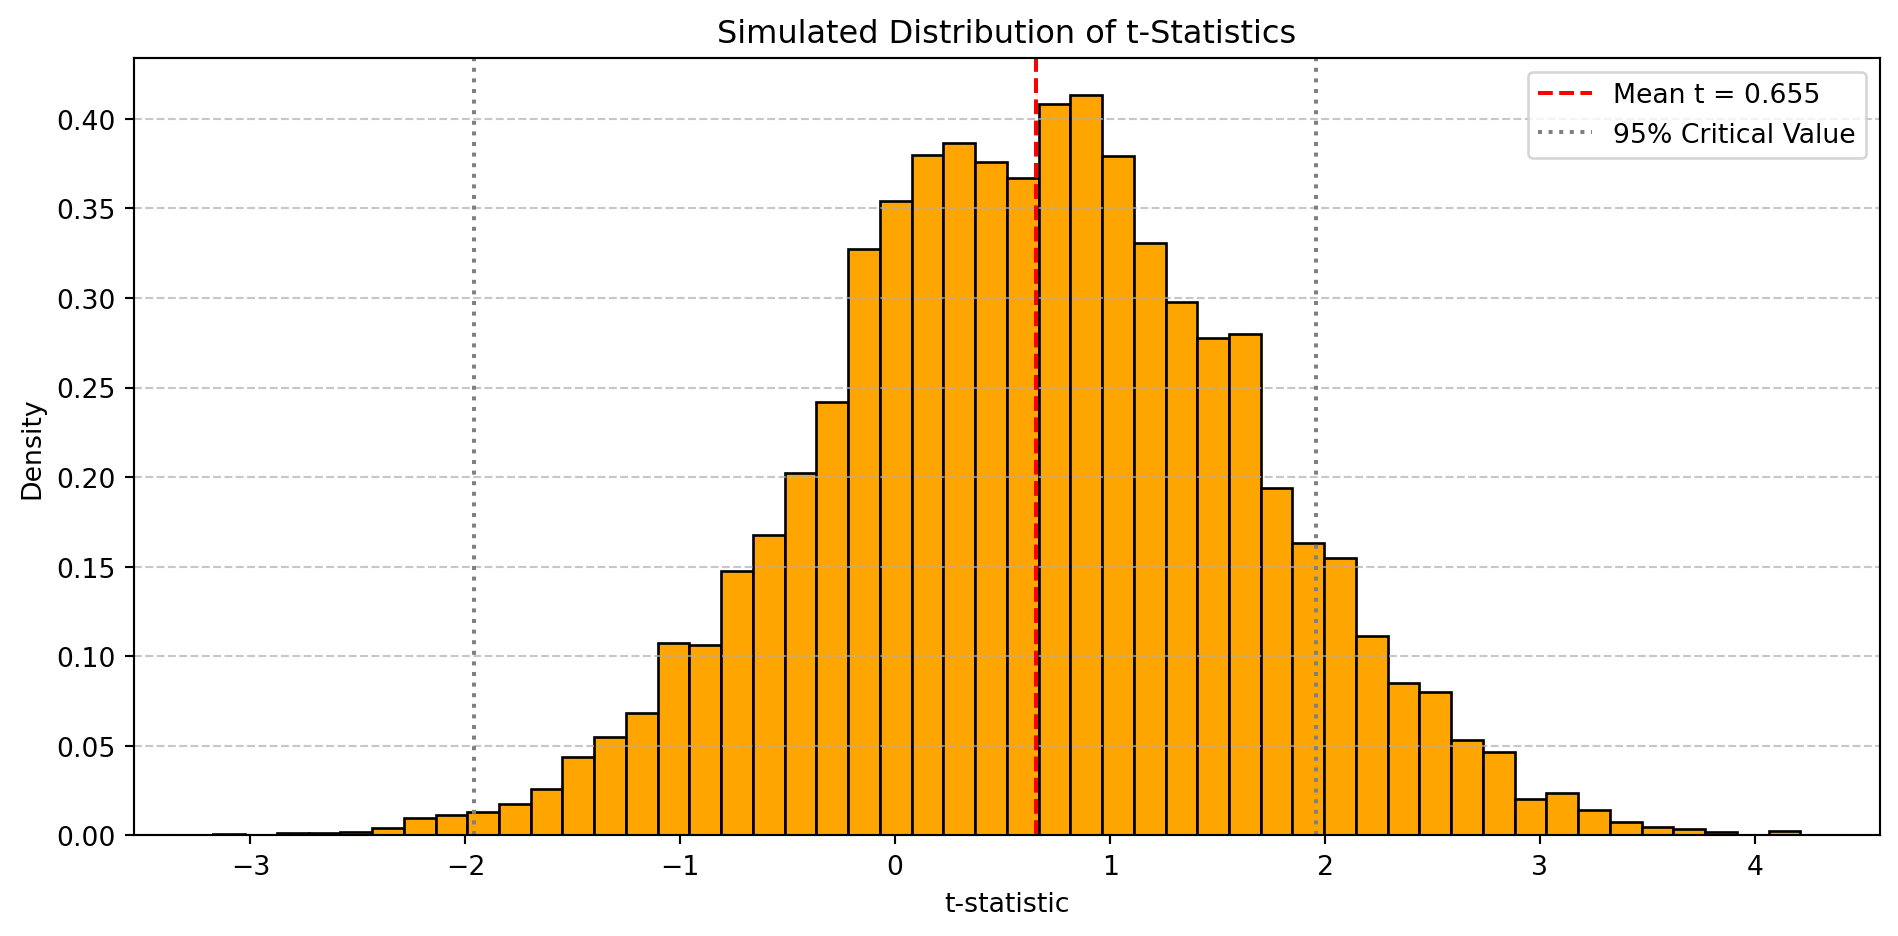
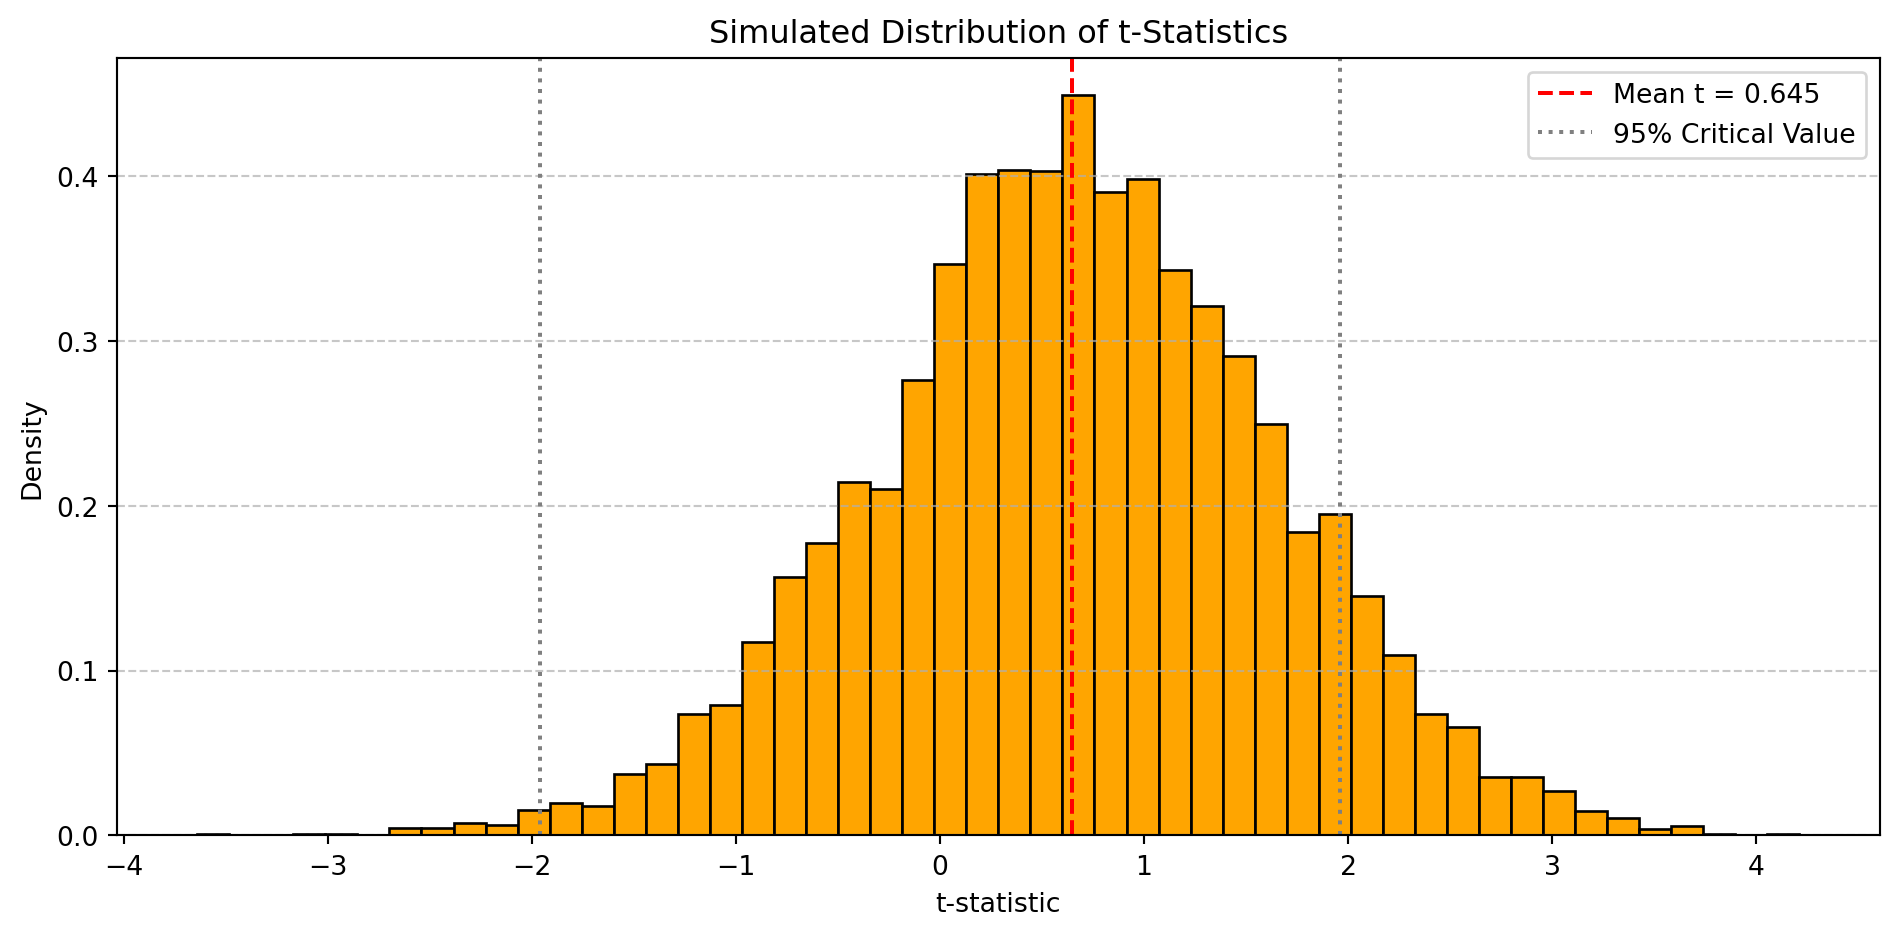
nan fix

diff --git a/docs/blogs/hw1/index.html b/docs/blogs/hw1/index.html
@@ -235,7 +235,7 @@ pre > code.sourceCode > span > a:first-child::before { text-decoration: underlin
 - Demographic indicators and prior donation history (e.g., years since first gift, total number of past donations, gender).
 - Geographic and political indicators such as whether the donor lived in a “red” or “blue” state during the 2004 presidential election, and the level of activity of the organization in that state.</code></pre>
 <p>The following Python code chunk loads the original dataset Dean Karlan used:</p>
-<div id="1e63f884" class="cell" data-execution_count="1">
+<div id="2b68b0b0" class="cell" data-execution_count="1">
 <details class="code-fold">
 <summary>Show code</summary>
 <div class="sourceCode cell-code" id="cb2"><pre class="sourceCode python code-with-copy"><code class="sourceCode python"><span id="cb2-1"><a href="#cb2-1" aria-hidden="true" tabindex="-1"></a><span class="im">import</span> pandas <span class="im">as</span> pd</span>
@@ -246,7 +246,7 @@ pre > code.sourceCode > span > a:first-child::before { text-decoration: underlin
 <section id="data-overview" class="level3">
 <h3 class="anchored" data-anchor-id="data-overview">Data Overview</h3>
 <p>This following table provides an overview of all variables in the dataset. It includes each variable’s name, its data type (e.g., numeric or categorical), and the number of missing values.</p>
-<div id="b46a76d2" class="cell" data-execution_count="2">
+<div id="ca077967" class="cell" data-execution_count="2">
 <div class="cell-output cell-output-display" data-execution_count="2">
 <div>
 
@@ -577,7 +577,7 @@ pre > code.sourceCode > span > a:first-child::before { text-decoration: underlin
 <section id="variable-definitions" class="level3">
 <h3 class="anchored" data-anchor-id="variable-definitions">Variable Definitions</h3>
 <p>The summary statistics table below presents descriptive metrics for all numeric variables in this dataset, including count, mean, standard deviation, and range (min/max).</p>
-<div id="bf6f51bb" class="cell" data-execution_count="3">
+<div id="943c561c" class="cell" data-execution_count="3">
 <div class="cell-output cell-output-display" data-execution_count="3">
 <div>
 
@@ -1368,7 +1368,7 @@ Variable Definitions
 <section id="balance-test" class="level3">
 <h3 class="anchored" data-anchor-id="balance-test">Balance Test</h3>
 <p>As an ad hoc test of the randomization mechanism, I provide a series of tests that compare aspects of the treatment and control groups to assess whether they are statistically significantly different from one another.</p>
-<div id="1326252c" class="cell" data-execution_count="4">
+<div id="18f487d3" class="cell" data-execution_count="4">
 <div class="cell-output cell-output-display" data-execution_count="4">
 <div>
 
@@ -1461,7 +1461,7 @@ Variable Definitions
 </div>
 </div>
 <p>This table replicates the balance check presented in Table 1 of Karlan &amp; List (2007), using a manual t-test formula to compare pre-treatment characteristics across the treatment and control groups. The variables cover donor behavior (e.g., months since last donation, prior contributions), demographics (e.g., gender, race, household size), and political/geographic indicators (e.g., red state/county, legal involvement of the organization). Across all tested variables, the t-statistics remain small (generally below ±2), and none of the differences reach conventional levels of statistical significance. This provides strong evidence that the treatment assignment was effectively randomized and groups are balanced on observable characteristics. This confirms the reliability of the experiment design and supports the validity of later comparisons on donation behavior.</p>
-<div id="835309e3" class="cell" data-execution_count="5">
+<div id="67d0fe09" class="cell" data-execution_count="5">
 <div class="cell-output cell-output-display" data-execution_count="5">
 <div>
 
@@ -1561,7 +1561,7 @@ Variable Definitions
 <section id="charitable-contribution-made" class="level3">
 <h3 class="anchored" data-anchor-id="charitable-contribution-made">Charitable Contribution Made</h3>
 <p>First, I analyze whether matched donations lead to an increased response rate of making a donation.</p>
-<div id="d07003f0" class="cell" data-execution_count="6">
+<div id="36d169a8" class="cell" data-execution_count="6">
 <div class="cell-output cell-output-display">
 <div>
 <figure class="figure">
@@ -1571,12 +1571,12 @@ Variable Definitions
 </div>
 </div>
 <p>This plot displays the proportion of individuals who made a charitable contribution in the control and treatment groups. The donation rate is noticeably higher in the treatment group, indicating that the presence of a matching donation offer likely increased the likelihood of giving. This supports the hypothesis that matched donations can serve as an effective behavioral nudge in charitable fundraising.</p>
-<div id="057eea01" class="cell" data-execution_count="7">
+<div id="6fd640e8" class="cell" data-execution_count="7">
 <div class="cell-output cell-output-stdout">
 <pre><code>t-statistic: 3.2095, p-value: 0.0013</code></pre>
 </div>
 </div>
-<div id="08c5584c" class="cell" data-execution_count="8">
+<div id="25221f03" class="cell" data-execution_count="8">
 <div class="cell-output cell-output-display" data-execution_count="8">
 <div>
 
@@ -1612,7 +1612,7 @@ Variable Definitions
 </div>
 </div>
 <p>Both the t-test and linear regression show a statistically significant difference in donation behavior between the treatment and control groups. Individuals who received a letter mentioning a matching grant were more likely to donate than those who received a standard letter. This finding replicates Table 2a Panel A of Karlan &amp; List (2007), and supports the hypothesis that matched donations act as a strong psychological motivator. From a behavioral standpoint, it suggests that people are more inclined to give when their contributions feel amplified — they may view their gift as having a greater impact, which encourages them to take action. This simple intervention—adding a match offer—significantly influenced behavior even though the individuals in both groups received similar messages aside from that detail.</p>
-<div id="45ace0aa" class="cell" data-execution_count="9">
+<div id="41023a3d" class="cell" data-execution_count="9">
 <div class="cell-output cell-output-display" data-execution_count="9">
 <div>
 
@@ -1652,7 +1652,7 @@ Variable Definitions
 <section id="differences-between-match-rates" class="level3">
 <h3 class="anchored" data-anchor-id="differences-between-match-rates">Differences between Match Rates</h3>
 <p>Next, I assess the effectiveness of different sizes of matched donations on the response rate.</p>
-<div id="eb08b0a0" class="cell" data-execution_count="10">
+<div id="a1ebe073" class="cell" data-execution_count="10">
 <div class="cell-output cell-output-display" data-execution_count="10">
 <div>
 
@@ -1692,7 +1692,7 @@ Variable Definitions
 </div>
 </div>
 <p>The t-tests above examine whether increasing the match ratio (from 1:1 to 2:1 or 3:1) significantly affects the probability of donating. The results show that the differences in donation rates are not statistically significant** at conventional levels. This finding aligns with the authors’ comment on page 8 of Karlan &amp; List (2007), where they state that “the figures suggest that higher match ratios did not lead to significantly greater giving rates.” Despite intuitive expectations, offering a 2:1 or 3:1 match did not lead to more people donating compared to a 1:1 match. This suggests that the psychological impact of having any match available may be more important than the generosity of the multiplier itself.</p>
-<div id="cad561b7" class="cell" data-execution_count="11">
+<div id="26f4daf9" class="cell" data-execution_count="11">
 <div class="cell-output cell-output-display" data-execution_count="11">
 <div>
 
@@ -1732,7 +1732,7 @@ Variable Definitions
 </div>
 </div>
 <p>This regression estimates the donation probability under different match ratios, using <code>ratio1</code> (1:1 match) as the baseline category. The intercept represents the average donation rate for the 1:1 group, while the coefficients for <code>ratio2</code> and <code>ratio3</code> represent the change in probability relative to that baseline. The results confirm that there are no statistically significant differences in donation rates when comparing 2:1 or 3:1 match ratios to the 1:1 ratio. These coefficients are close to zero and accompanied by large p-values, reinforcing the earlier t-test findings. In line with the authors’ interpretation, this suggests that increasing the match ratio beyond 1:1 does not further motivate giving** — the existence of a match alone may be the primary driver of behavioral change, rather than its size.</p>
-<div id="bf1309e0" class="cell" data-execution_count="12">
+<div id="0d144fdc" class="cell" data-execution_count="12">
 <div class="cell-output cell-output-display" data-execution_count="12">
 <div>
 
@@ -1768,12 +1768,12 @@ Variable Definitions
 <section id="size-of-charitable-contribution" class="level3">
 <h3 class="anchored" data-anchor-id="size-of-charitable-contribution">Size of Charitable Contribution</h3>
 <p>In this subsection, I analyze the effect of the size of matched donation on the size of the charitable contribution.</p>
-<div id="433ea580" class="cell" data-execution_count="13">
+<div id="11bdf0b4" class="cell" data-execution_count="13">
 <div class="cell-output cell-output-stdout">
 <pre><code>t-statistic: 1.9183, p-value: 0.0551</code></pre>
 </div>
 </div>
-<div id="75b8e6b9" class="cell" data-execution_count="14">
+<div id="ec459c57" class="cell" data-execution_count="14">
 <div class="cell-output cell-output-display" data-execution_count="14">
 <div>
 
@@ -1813,7 +1813,7 @@ Variable Definitions
 </div>
 </div>
 <p>This analysis tests whether the average donation amount differs between the treatment and control groups — regardless of whether someone donated or not (i.e., this includes all the zeros). Both the t-test and linear regression show that the mean donation amount is slightly higher in the treatment group, but the difference is small in magnitude and statistically weak. The low R-squared value also indicates that treatment status explains very little of the variance in donation amounts. This suggests that while matched donations may influence whether people give, they don’t strongly influence how much they give, at least when considering all individuals (including those who gave $0). To better understand donation behavior among actual donors, we’ll refine this analysis next by limiting it to individuals who did donate.</p>
-<div id="fda439d2" class="cell" data-execution_count="15">
+<div id="cfe6ad32" class="cell" data-execution_count="15">
 <div class="cell-output cell-output-display" data-execution_count="15">
 <div>
 
@@ -1853,7 +1853,7 @@ Variable Definitions
 </div>
 </div>
 <p>By focusing only on those who actually donated, this regression estimates how much more (or less) people gave if they were in the treatment group compared to the control group. The estimated coefficient on <code>treatment</code> now reflects the difference in average gift size conditional on donating. The result shows that the treatment has very little effect on the amount donated among those who gave something — the coefficient is small and statistically insignificant. This finding supports the idea that the matching grant mainly affects the decision to donate, not the amount donated once that decision is made. In other words, treatment increases the extensive margin (whether to give), but not the intensive margin (how much to give). Regarding causal interpretation: since treatment was randomly assigned, and we’re conditioning on an outcome (<code>gave</code>), the estimate does not have a strict causal interpretation. It’s subject to selection bias — those who gave in treatment might be different in unobservable ways from those who gave in control. So we interpret this descriptively rather than causally.</p>
-<div id="d3ff4b77" class="cell" data-execution_count="16">
+<div id="3f4c534d" class="cell" data-execution_count="16">
 <div class="cell-output cell-output-display">
 <div>
 <figure class="figure">
@@ -1870,7 +1870,7 @@ Variable Definitions
 <p>As a reminder of how the t-statistic “works,” in this section I use simulation to demonstrate the Law of Large Numbers and the Central Limit Theorem.</p>
 <p>Suppose the true distribution of respondents who do not get a charitable donation match is Bernoulli with probability p=0.018 that a donation is made.</p>
 <p>Further suppose that the true distribution of respondents who do get a charitable donation match of any size is Bernoulli with probability p=0.022 that a donation is made.</p>
-<div id="85c0a9aa" class="cell" data-execution_count="17">
+<div id="7dd6940e" class="cell" data-execution_count="17">
 <div class="cell-output cell-output-display">
 <div>
 <figure class="figure">
@@ -1883,7 +1883,7 @@ Variable Definitions
 <p>This visually demonstrates how small but real differences can become detectable with sufficient sample size and repeated sampling — a core insight from the Law of Large Numbers and Central Limit Theorem.</p>
 <section id="law-of-large-numbers" class="level3">
 <h3 class="anchored" data-anchor-id="law-of-large-numbers">Law of Large Numbers</h3>
-<div id="91105de7" class="cell" data-execution_count="18">
+<div id="e66f6ee7" class="cell" data-execution_count="18">
 <div class="cell-output cell-output-display">
 <div>
 <figure class="figure">
@@ -1896,11 +1896,11 @@ Variable Definitions
 </section>
 <section id="central-limit-theorem" class="level3">
 <h3 class="anchored" data-anchor-id="central-limit-theorem">Central Limit Theorem</h3>
-<div id="fdc89b10" class="cell" data-execution_count="19">
+<div id="26f3e263" class="cell" data-execution_count="19">
 <div class="cell-output cell-output-display">
 <div>
 <figure class="figure">
-<p><img src="index_files/figure-html/cell-20-output-1.png" width="1139" height="755" class="figure-img"></p>
+<p><img src="index_files/figure-html/cell-20-output-1.png" width="1141" height="755" class="figure-img"></p>
 </figure>
 </div>
 </div>
@@ -2652,7 +2652,7 @@ Variable Definitions
 <span id="cb5-306"><a href="#cb5-306" aria-hidden="true" tabindex="-1"></a></span>
 <span id="cb5-307"><a href="#cb5-307" aria-hidden="true" tabindex="-1"></a><span class="im">import</span> pandas <span class="im">as</span> pd</span>
 <span id="cb5-308"><a href="#cb5-308" aria-hidden="true" tabindex="-1"></a>ttest_results <span class="op">=</span> pd.DataFrame([</span>
-<span id="cb5-309"><a href="#cb5-309" aria-hidden="true" tabindex="-1"></a>    [k, <span class="bu">round</span>(v.statistic, <span class="dv">4</span>), <span class="bu">round</span>(v.pvalue, <span class="dv">4</span>)]</span>
+<span id="cb5-309"><a href="#cb5-309" aria-hidden="true" tabindex="-1"></a>    [k, <span class="bu">round</span>(v[<span class="dv">0</span>], <span class="dv">4</span>), <span class="bu">round</span>(v[<span class="dv">1</span>], <span class="dv">4</span>)]</span>
 <span id="cb5-310"><a href="#cb5-310" aria-hidden="true" tabindex="-1"></a>    <span class="cf">for</span> k, v <span class="kw">in</span> tests.items()</span>
 <span id="cb5-311"><a href="#cb5-311" aria-hidden="true" tabindex="-1"></a>], columns<span class="op">=</span>[<span class="st">"Comparison"</span>, <span class="st">"t-statistic"</span>, <span class="st">"p-value"</span>])</span>
 <span id="cb5-312"><a href="#cb5-312" aria-hidden="true" tabindex="-1"></a></span>

diff --git a/docs/blogs.html b/docs/blogs.html
@@ -266,7 +266,7 @@ Apr 23, 2025
 </div>
 </div></a>
 </div>
-<div class="g-col-1" data-index="1" data-listing-date-sort="1745391600000" data-listing-file-modified-sort="1745477660774" data-listing-date-modified-sort="NaN" data-listing-reading-time-sort="32" data-listing-word-count-sort="6284">
+<div class="g-col-1" data-index="1" data-listing-date-sort="1745391600000" data-listing-file-modified-sort="1745477864732" data-listing-date-modified-sort="NaN" data-listing-reading-time-sort="32" data-listing-word-count-sort="6284">
 <a href="./blogs/hw1/index.html" class="quarto-grid-link">
 <div class="quarto-grid-item card h-100 card-left">
 <p class="card-img-top"><img src="blogs/hw1/index_files/figure-html/cell-7-output-1.png" style="height: 150px;"  class="thumbnail-image card-img"/></p>
